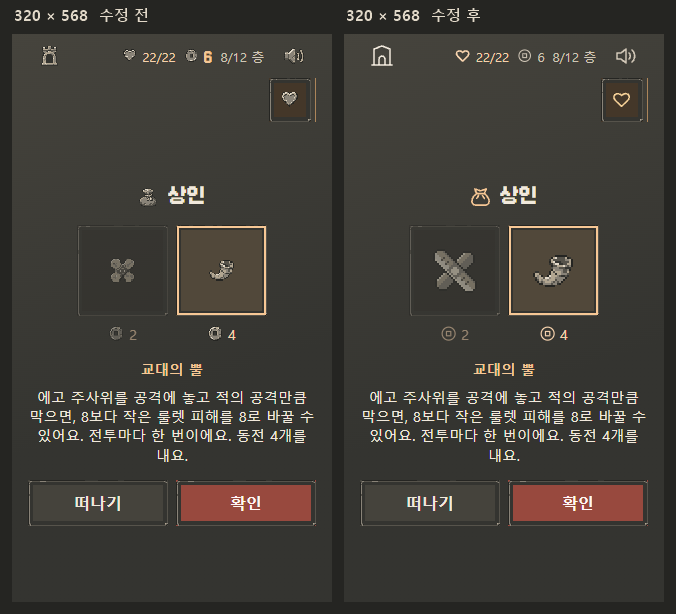
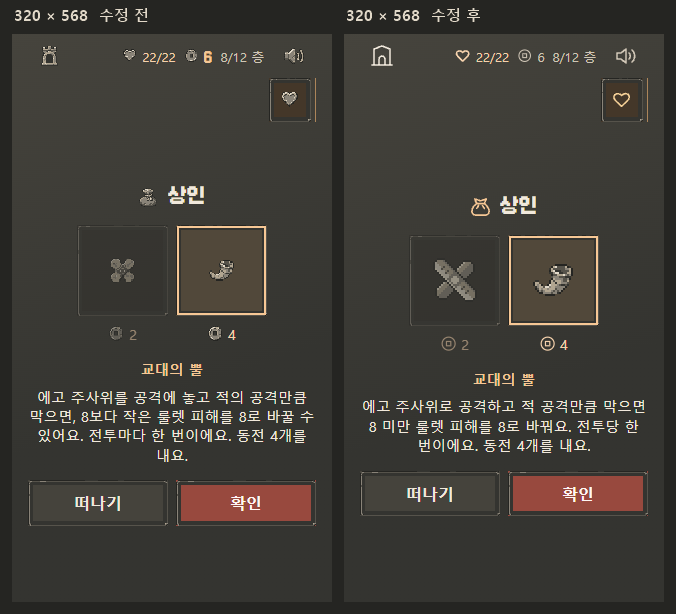
문구 병합 검증과 모바일 비교 자료 갱신

diff --git a/_return/2026-11-26-art-font-unify-2/RETURN.md b/_return/2026-11-26-art-font-unify-2/RETURN.md
@@ -1,6 +1,10 @@
 # 공개판 UI · 게이머 게이트 수정
 
-기준판은 `744f1f4`, 작업 브랜치는 `codex/art-font-unify`다. Edge Chromium에서 두 배포용 빌드를 같은 시드와 진행 상태로 열었다. 왼쪽이 수정 전, 오른쪽이 수정 후다.
+작업 브랜치는 `codex/art-font-unify`다. 같은 시드와 진행 상태로 배포용 빌드를 Edge Chromium에서 열었다. 왼쪽은 게이머 게이트 수정 전 `744f1f4`, 오른쪽은 수정과 윤문을 합친 `913bea1`이다.
+
+## 문구 윤문 병합
+
+`origin/main`의 `a0717a1`을 작업 브랜치의 `7ac0f4d`에 병합했다. 병합 커밋은 `913bea1`이며 충돌 없이 합쳐졌다. 도감, 특전·보상 설명, 보스 유물 문구 파일이 `a0717a1`과 일치하고, 그림·색·글꼴 파일이 화면 수정판 `7ac0f4d`와 일치함을 확인했다.
 
 ## 수정과 확인
 
@@ -18,8 +22,10 @@
 | 지도 · 상인 갈림길 | [PNG](320x568-map.png) | [PNG](390x844-map.png) |
 | 상점 · 치료 도구와 교대의 뿔 | [PNG](320x568-shop.png) | [PNG](390x844-shop.png) |
 
+병합판에서 윤문을 직접 확인한 화면은 [320px 도감](checks/320x568-dex.png), [390px 도감](checks/390x844-dex.png), [320px 시작 특전](checks/320x568-perks.png), [390px 시작 특전](checks/390x844-perks.png)이다.
+
 ## 검증
 
-- `npm run build` 성공. 실제 배포용 경로 `/hwigi-tower-remake/`에서 아이콘 로드와 화면 배치를 확인했다.
-- `npm test` 153개, `npm run smoke` 32개 통과. 모바일 스모크의 첫 등반에 보상 그림 로드·48px 크기, 동전 수의 글자 스타일, 공격 칸의 배치 가능·완료 상태 검사를 추가했다.
[1 lines of base64/hex data omitted]
+- 병합판에서 `npm run build` 성공. 실제 배포용 경로 `/hwigi-tower-remake/`에서 아이콘, 화면 배치, 도감·시작 특전·상점의 윤문을 확인했다.
+- 병합판에서 `npm test` 153개, `npm run smoke` 32개 통과. 모바일 스모크의 첫 등반에 보상 그림 로드·48px 크기, 동전 수의 글자 스타일, 공격 칸의 배치 가능·완료 상태 검사를 추가했다.
[1 lines of base64/hex data omitted]
